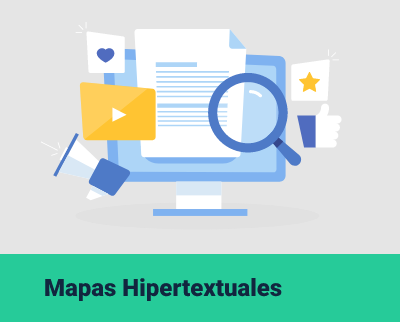
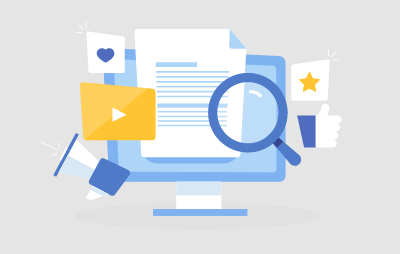
Se corrigen imágenes.

diff --git a/src/views/Tema2.vue b/src/views/Tema2.vue
@@ -54,8 +54,7 @@
     p.mb-5(data-aos="flip-up") En la arquitectura web también se incluye el diseño de interfaz de usuario, el diseño de la aplicación y la estructura de la información, con lo cual hay un enfoque del aspecto visual, colores, tamaños de letra, estructura de las diferentes secciones, las funcionalidades segregadas en cada una de las vistas del sitio web y por último, se determina la información que debe existir en cada una de las secciones del sitio web y que se verá reflejado en un ambiente productivo. 
 
     .cajon.color-secundario.p-4.mb-5(data-aos="flip-up")
-      .cajon-b.color-primario
-        p #[strong Arquitectura de aplicación o arquitectura de #[i software]:] en la arquitectura de aplicación se pueden encontrar métodos, técnicas, diseños y patrones para desarrollar un producto #[i software], la cual provee una guía y una serie de prácticas recomendadas para construir un producto #[i software], de tal modo que se obtenga una solución bien estructurada y siguiendo estándares. 
+      p #[strong.recua_bg2.p-1 Arquitectura de aplicación o arquitectura de #[i software]:] en la arquitectura de aplicación se pueden encontrar métodos, técnicas, diseños y patrones para desarrollar un producto #[i software], la cual provee una guía y una serie de prácticas recomendadas para construir un producto #[i software], de tal modo que se obtenga una solución bien estructurada y siguiendo estándares. 
 
     .row.mb-5(data-aos="flip-up")
       .col-lg-6
@@ -82,8 +81,7 @@
     p.mb-5(data-aos="flip-up") La arquitectura es un punto de partida que permite tomar decisiones de desarrollo, como por ejemplo el tipo de estructura, el lenguaje de programación y la infraestructura que se deberá tener en cuenta para su despliegue. En la actualidad se cuenta con diferentes lenguajes de programación, entre los cuales encontramos Swift, Kotlin, JavaScript, Java, Python, Php, entre otros, los cuales son usados para un tipo de programación en específico. 
 
     .cajon.color-secundario.p-4.mb-5(data-aos="flip-up")
-      .cajon-b.color-primario
-        p #[strong Desarrollo Frontend:] se puede traducir como frente o fachada final, esta vertiente del desarrollo de #[i software] es una especialidad para el desarrollo web y concentra lo que se define como interfaz de usuario (GUI - Graphical User Interface), esta es la parte del sitio web con la cual los usuarios interactúan y este se despliega del lado del cliente; está orientado al lenguaje de marcas o etiquetas, todo lo visual de un sitio web, tamaños, colores, formas, formatos y renderizado de información al usuario. 
+      p #[strong.recua_bg2.p-1 Desarrollo Frontend:] se puede traducir como frente o fachada final, esta vertiente del desarrollo de #[i software] es una especialidad para el desarrollo web y concentra lo que se define como interfaz de usuario (GUI - Graphical User Interface), esta es la parte del sitio web con la cual los usuarios interactúan y este se despliega del lado del cliente; está orientado al lenguaje de marcas o etiquetas, todo lo visual de un sitio web, tamaños, colores, formas, formatos y renderizado de información al usuario. 
 
     p.mb-5(data-aos="flip-up") #[strong Entre las tecnologías que son usadas del lado #[i Front-end] podemos indicar las siguientes:]
 
@@ -102,8 +100,7 @@
         | Css3
 
     .cajon.color-acento-botones.p-4.mb-5(data-aos="flip-up")
-      .cajon-b.color-acento-botones
-        p #[strong Desarrollo Backend:] está enfocado a lenguajes de programación y hace referencia a la lógica interna del sistema, se le conoce también como el desarrollo del lado del servidor, dado que los componentes están en un espacio servidor que normalmente está conectado al internet (nube) o algún tipo de red que permita acceder a sus funcionalidades. 
+      p #[strong.recua_bg1.p-1 Desarrollo Backend:] está enfocado a lenguajes de programación y hace referencia a la lógica interna del sistema, se le conoce también como el desarrollo del lado del servidor, dado que los componentes están en un espacio servidor que normalmente está conectado al internet (nube) o algún tipo de red que permita acceder a sus funcionalidades. 
 
     p.mb-5(data-aos="flip-up") #[strong Entre las tecnologías que son usadas del lado #[i Back-end] podemos indicar las siguientes:]
 
@@ -128,18 +125,18 @@
     p.mb-5(data-aos="flip-up") Los diferentes tipos de arquitecturas web se pueden catalogar dada su profundidad, cantidad de interacciones con el usuario al dar clic, como las siguientes: 
 
     .cajon.color-acento-botones.p-4.mb-5(data-aos="flip-up")
-      .cajon-b.color-acento-botones
-        p.mb-0 #[strong Arquitectura vertical:] son aquellos sitios web que emplean una gran cantidad de categorías, para organizar la información, dejando una gran distancia entre el home y la última página posible, este distanciamiento se mide en clics realizados por el usuario al momento de efectuar la navegación en el sitio.
+      p.mb-0 #[strong.recua_bg1.p-1 Arquitectura vertical:] son aquellos sitios web que emplean una gran cantidad de categorías, para organizar la información, dejando una gran distancia entre el home y la última página posible, este distanciamiento se mide en clics realizados por el usuario al momento de efectuar la navegación en el sitio.
         p.mb-0 Un ejemplo claro de este tipo de arquitectura se puede presentar las páginas web de las tiendas online, en la siguiente grafica puede visualizar este tipo de arquitectura.
 
     p.BorTit.mb-5(data-aos="flip-up") #[strong Figura 4] #[br] #[i Arquitectura vertical]
     figure.mb-5(data-aos="flip-up") 
       img.img-a.mb-4(src='@/assets/curso/tema_2/img_4.png', alt='Texto que describa la imagen')
-      figcaption Nota. Adaptado de Idital (2020) 
+      .row
+        .col-lg-4
+          figcaption Nota. Adaptado de Idital (2020) 
 
     .cajon.color-acento-botones.p-4.mb-5(data-aos="flip-up")
-      .cajon-b.color-acento-botones
-        p.mb-0 #[strong Arquitectura Horizontal:] la arquitectura web horizontal o plana, es aquella que tiene la posibilidad de acceder a todo el contenido del sitio web, con uno o dos clics nada más; se trata del método de distribución de información ideal, además los bots (programa informático que actúa como un robot) podrán leer los patrones presentes el sitio web más rápido y esto resulta muy positivo. En la siguiente gráfica se puede visualizar este tipo de arquitectura:
+      p.mb-0 #[strong.recua_bg1.p-1 Arquitectura Horizontal:] la arquitectura web horizontal o plana, es aquella que tiene la posibilidad de acceder a todo el contenido del sitio web, con uno o dos clics nada más; se trata del método de distribución de información ideal, además los bots (programa informático que actúa como un robot) podrán leer los patrones presentes el sitio web más rápido y esto resulta muy positivo. En la siguiente gráfica se puede visualizar este tipo de arquitectura:
 
     p.BorTit.mb-5(data-aos="flip-up") #[strong Figura 5] #[br] #[i Estructura horizontal]
     figure.mb-5(data-aos="flip-up") 
@@ -156,12 +153,15 @@
     .row.mb-5
       .col-lg-4.mb-4.mb-lg-0(data-aos="slide-left") 
         img.img-a.mb-3(src='@/assets/curso/tema_2/img_6.png', alt='Texto que describa la imagen')
+        h4.text-center Mapas Hipertextuales
         p Son artefactos que representan gráficamente los documentos, elementos,  hipervínculos  y las conexiones existentes entre los mismos.
       .col-lg-4.mb-4.mb-lg-0(data-aos="flip-up")
         img.img-a.mb-3(src='@/assets/curso/tema_2/img_7.png', alt='Texto que describa la imagen')
+        h4.text-center Mapas de Navegación en Acción
         p Describe las categorías implementadas en el menú de navegación.
       .col-lg-4.mb-4.mb-lg-0(data-aos="slide-right") 
         img.img-a.mb-3(src='@/assets/curso/tema_2/img_8.png', alt='Texto que describa la imagen')
+        h4.text-center Software para crear mapas 
         p Se utilizan herramientas de generación de código, por lo general basados en JavaScript, el cual permite la exportación de un menú activo, que utiliza imágenes como iconos y estándares en los archivos generados. 
 
     p.mb-5(data-aos="flip-up")
@@ -170,7 +170,9 @@
     p.BorTit.mb-5(data-aos="flip-up") #[strong Figura 6] #[br] #[i Mapa de navegación]
     figure.mb-5(data-aos="flip-up") 
       img.img-a.mb-4(src='@/assets/curso/tema_2/img_9.png', alt='Texto que describa la imagen')
-      figcaption Nota. Adaptado de Eniun (s.f)
+      .row
+        .col-lg-4
+          figcaption Nota. Adaptado de Eniun (s.f)
 
     separador
     #t_2_3.titulo-segundo(data-aos="flip-up")
@@ -275,16 +277,13 @@
     p.mb-5(data-aos="flip-up") Por su parte, un IDE (Integrated Developer Environment) o entorno de desarrollo integrado, es una aplicación especial diseñada para programar, la cual cuenta con una interfaz gráfica (GUI), con un editor de texto que permite escribir las sentencias u órdenes en el lenguaje de programación seleccionado para construir el producto #[i software]. Este tipo de herramientas vienen con una serie de pasos de configuración para que al realizar el proceso de programación, compilación y ejecución todo esté acorde y se pueda probar y desplegar el producto de manera local (en la máquina del desarrollador). Sabiendo esto, las siguientes son algunas de las características de los IDE:
 
     .cajon.color-acento-botones.p-4.mb-5(data-aos="slide-left") 
-      .cajon-b.color-acento-botones
-        p.mb-0 #[strong Editor de código fuente:] es la herramienta que permite al desarrollador escribir el código fuente del producto #[i software], esta herramienta por lo general contiene indicadores visuales, que ayudan a identificar los errores de sintaxis, autocompletado, comprobación de errores a la medida que se van escribiendo las sentencias. En esta herramienta se hace plena validación de las reglas semánticas del lenguaje en el cual se está construyendo el producto #[i software].
+      p.mb-0 #[strong.recua_bg1.p-1 Editor de código fuente:] es la herramienta que permite al desarrollador escribir el código fuente del producto #[i software], esta herramienta por lo general contiene indicadores visuales, que ayudan a identificar los errores de sintaxis, autocompletado, comprobación de errores a la medida que se van escribiendo las sentencias. En esta herramienta se hace plena validación de las reglas semánticas del lenguaje en el cual se está construyendo el producto #[i software].
 
     .cajon.color-secundario.p-4.mb-5(data-aos="slide-right") 
-      .cajon-b.color-secundario
-        p.mb-0 #[strong Automatización de compilaciones locales:] herramienta que sirve para automatizar tareas sencillas y repetitivas como parte de la comisión local, esto permite crear el código binario, ejecución de prueba automatizadas, verificación de cobertura, verificación de estilos en la programación para el código fuente. 
+      p.mb-0 #[strong.recua_bg2 Automatización de compilaciones locales:] herramienta que sirve para automatizar tareas sencillas y repetitivas como parte de la comisión local, esto permite crear el código binario, ejecución de prueba automatizadas, verificación de cobertura, verificación de estilos en la programación para el código fuente. 
 
     .cajon.color-acento-botones.p-4.mb-5(data-aos="slide-left") 
-      .cajon-b.color-acento-botones
-        p.mb-0 #[strong Depurador:] es la herramienta que sirve para probar los programas, en el cual se realiza una inspección y se ubican los errores en el código de forma visual o en un reporte en texto plano, esto es de mucha utilidad para los desarrolladores ya que permite encontrar problemas rápidamente y dar solución. 
+      p.mb-0 #[strong.recua_bg1.p-1 Depurador:] es la herramienta que sirve para probar los programas, en el cual se realiza una inspección y se ubican los errores en el código de forma visual o en un reporte en texto plano, esto es de mucha utilidad para los desarrolladores ya que permite encontrar problemas rápidamente y dar solución. 
 
     .row.mb-5
       .col-lg-5

diff --git a/src/views/Tema1.vue b/src/views/Tema1.vue
@@ -11,7 +11,7 @@
       .col-lg-7.mb-4.mb-lg-0(data-aos="slide-left")
         p Juega un papel muy importante en el proceso del desarrollo de #[i software], ya que desde allí se definen la estructura, componentes, comportamiento e infraestructura requerida para la construcción del #[i software], impactando la capacidad para satisfacer los atributos de calidad del sistema; entre estos están: el desempeño, tiempos de respuesta, usabilidad, accesibilidad, escalabilidad, mantenimiento y cambios de nuevas funcionalidades. 
 
-        .cajon-b.color-acento-botones.p-3.mb-5
+        .cajon-b.color-acento-botones.p-1.mb-5
           p.mb-0 Los atributos de calidad son parte de los requisitos del sistema no funcionales y son características que se deben expresar de forma cuantitativa. No tienen sentido si se expresan de forma subjetiva, dado que esto no va a ser posteriormente evaluable; por ejemplo, decir que el sistema al recibir una petición #[strong “debe ser rápido”] o que una página #[strong “debe ser ligera al cargar”], esto no se podría evaluar objetivamente. Por lo cual, podríamos decir que, si en un sistema estructurado la información debe pasar por muchos componentes antes de devolver el resultado, esto incurre en aumentar la latencia y su desempeño puede llegar a ser pobre. Otro ejemplo es que si los componentes de un #[i software] presentan un alto acoplamiento y una baja cohesión entre ellos se limita altamente la modificabilidad.
 
 
@@ -27,7 +27,9 @@
     p.BorTit.mb-5(data-aos="flip-up") #[strong Figura 1] #[br] #[i Representación de la arquitectura por capas]
     figure.mb-5(data-aos="flip-up") 
       img.img-a.mb-4(src='@/assets/curso/tema_1/img_2.svg', alt='Texto que describa la imagen')
-      figcaption Nota. Adaptada de Programadorclic (s.f.)
+      .row
+        .col-lg-4
+          figcaption Nota. Adaptada de Programadorclic (s.f.)
 
     p.mb-5(data-aos="flip-up")
       strong En la anterior imagen se puede observar el ejemplo de una arquitectura con 5 capas, en la cual cada capa tiene una finalidad específica en la aplicación, las cuales se describen a continuación: 
@@ -89,33 +91,10 @@
 
       h4.mb-5 Representación de arquitectura por capas
 
-      AcordionA.mb-5(tipo="a" clase-tarjeta="tarjeta bg_02")(data-aos="flip-up")
-        .row.justify-content-center(titulo="Capa de presentación")
-          .col-md-4.mb-4.mb-md-0
-            .bg_03.p-4
-              h5.mb-0.text-center.txt_01 Componente
-          .col-md-4.mb-4.mb-md-0
-            .bg_03.p-4
-              h5.mb-0.text-center.txt_01 Componente
-        .row.justify-content-center(titulo="Capa de negocio")
-          .col-md-4.mb-4.mb-md-0
-            .bg_03.p-4
-              h5.mb-0.text-center.txt_01 Componente
-          .col-md-4.mb-4.mb-md-0
-            .bg_03.p-4
-              h5.mb-0.text-center.txt_01 Componente
-        .row.justify-content-center(titulo="Capa de persistencia")
-          .col-md-4.mb-4.mb-md-0
-            .bg_03.p-4
-              h5.mb-0.text-center.txt_01 Componente
-          .col-md-4.mb-4.mb-md-0
-            .bg_03.p-4
-              h5.mb-0.text-center.txt_01 Componente
-        .row.justify-content-center(titulo="Capa de bases de datos")
-          .col-md-4.mb-4.mb-md-0
-            img.img-a(src='@/assets/curso/tema_1/img_8.png', alt='Texto que describa la imagen')
-          .col-md-4.mb-4.mb-md-0
-            img.img-a(src='@/assets/curso/tema_1/img_8.png', alt='Texto que describa la imagen')
+      img.img-a.mb-3(data-aos="slide-left")(src='@/assets/curso/tema_1/img_40.png', alt='Texto que describa la imagen')
+      img.img-a.mb-3(data-aos="slide-right")(src='@/assets/curso/tema_1/img_41.png', alt='Texto que describa la imagen')
+      img.img-a.mb-3(data-aos="slide-left")(src='@/assets/curso/tema_1/img_42.png', alt='Texto que describa la imagen')
+      img.img-a.mb-5(data-aos="slide-right")(src='@/assets/curso/tema_1/img_43.png', alt='Texto que describa la imagen')
 
       .row.mb-5(data-aos="flip-up")
         .col-lg-6.mb-4.mb-lg-0(data-aos="slide-left")
@@ -151,25 +130,27 @@
           .row.align-items-center.justify-content-center
             .col-md-5.mb-4.mb-md-0
               p Es un tipo de arquitectura tradicional asociada a los sistemas heredados, estas contemplan toda la funcionalidad en sí, en la cual hay conexión directa a la interacción de servicios como a la construcción de estos.
-            .col-md-4
+            .col-md-5
               figure
                 img.img-a(src='@/assets/curso/tema_1/img_10.png', alt='Texto que describa la imagen')
           .row.align-items-center.justify-content-center
             .col-md-5.mb-4.mb-md-0
               p Esto significa que al hacer algún tipo de ajuste o cambio funcional el impacto es bastante alto y crítico,  pues hay afectaciones en la aplicación y en la infraestructura subyacente.
-            .col-md-4
+            .col-md-5
               figure
                 img.img-a(src='@/assets/curso/tema_1/img_11.png', alt='Texto que describa la imagen')
           .row.align-items-center.justify-content-center
             .col-md-5.mb-4.mb-md-0
               p Un solo cambio implica volver a desplegar toda la infraestructura, hay empresas que optan por lanzar actualizaciones 1 o 2 veces al año, y muchas veces sin incluir nuevas funcionalidades y solo es soporte de mantenimiento.
-            .col-md-4
+            .col-md-5
               figure
                 img.img-a(src='@/assets/curso/tema_1/img_12.png', alt='Texto que describa la imagen')
           .row.align-items-center.justify-content-center
             h4.text-center.mb-5 Representación de una Arquitectura Monolítica:
-            img.img-a.mb-2(src='@/assets/curso/tema_1/img_13.png', alt='Texto que describa la imagen')
-            figcaption.mb-4 Nota. Adaptada de Blancarte (2020)
+            img.img-a.mb-3(src='@/assets/curso/tema_1/img_13.png', alt='Texto que describa la imagen')
+            .row
+              .col-lg-4
+                  figcaption.mb-4 Nota. Adaptada de Blancarte (2020)
 
     .bg_01.p-5.mb-5(data-aos="flip-up")
       h3.mb-5 Arquitectura orientada a servicios (SOA): 
@@ -178,19 +159,19 @@
           .row.align-items-center.justify-content-center
             .col-md-5.mb-4.mb-md-0
               p En esta se definen las funcionalidades en estructuras de servicios independientes y reutilizables que se utilizan por medio de un bus de servicios empresarial (ESB). 
-            .col-md-4
+            .col-md-5
               figure
                 img.img-a(src='@/assets/curso/tema_1/img_14.png', alt='Texto que describa la imagen')
           .row.align-items-center.justify-content-center
             .col-md-5.mb-4.mb-md-0
               p Los servicios se organizan en torno a un proceso empresarial específico que se denomina “dominio”, estos servicios deben cumplir con un protocolo de comunicación como SOAP, REST, ActiveMQ. 
-            .col-md-4
+            .col-md-5
               figure
                 img.img-a(src='@/assets/curso/tema_1/img_15.png', alt='Texto que describa la imagen')
           .row.align-items-center.justify-content-center
             .col-md-5.mb-4.mb-md-0
               p Una aplicación Front-end puede consumir estos servicios por medio de una integración hacia el bus y presentarla al cliente.  
-            .col-md-4
+            .col-md-5
               figure
                 img.img-a(src='@/assets/curso/tema_1/img_16.png', alt='Texto que describa la imagen')
           .row.align-items-center.justify-content-center
@@ -204,25 +185,27 @@
           .row.align-items-center.justify-content-center
             .col-md-5.mb-4.mb-md-0
               p Representa un modo de abordar la construcción del #[i software] y la estructuración del mismo, en este tipo de implementación el producto #[i software] se divide en elementos más pequeños, que se representan en muchos productos de #[i software] (aplicaciones), los cuales son independientes entre sí. 
-            .col-md-4
+            .col-md-5
               figure
                 img.img-a(src='@/assets/curso/tema_1/img_18.png', alt='Texto que describa la imagen')
           .row.align-items-center.justify-content-center
             .col-md-5.mb-4.mb-md-0
               p A cada uno de estos elementos individuales se le denomina microservicio, que por lo general están distribuidos por dominio de negocio y tiene la particularidad de manejar un bajo acoplamiento, de tal manera que no influyen entre sí.  
-            .col-md-4
+            .col-md-5
               figure
                 img.img-a(src='@/assets/curso/tema_1/img_19.png', alt='Texto que describa la imagen')
           .row.align-items-center.justify-content-center
             .col-md-5.mb-4.mb-md-0
               p Este marco de trabajo es apropiado para dar soporte oportuno a la escalabilidad dinámica y la tolerancia a fallos, dado que se puede ampliar su función utilitaria sin tener que recurrir a una infraestructura compleja, se pueden realizar cambios rápidos y no afectar de esta manera a los demás dominios funcionales representados en los microservicios.
-            .col-md-4
+            .col-md-5
               figure
                 img.img-a(src='@/assets/curso/tema_1/img_20.png', alt='Texto que describa la imagen')
           .row.align-items-center.justify-content-center
             h4.text-center.mb-5 Representación de arquitectura orientada a servicios (SOA)
             img.img-a.mb-2(src='@/assets/curso/tema_1/img_21.png', alt='Texto que describa la imagen')
-            figcaption.mb-3 Nota. Adaptado de Blancarte (2018).
+            .row
+              .col-lg-4
+                figcaption.mb-3 Nota. Adaptado de Blancarte (2018).
 
             p.mb-4 Como se refleja en la figura, el contenedor 1, 2, 3, n, representan los microservicios (aplicaciones pequeñas), en las cuales se contienen una serie de servicios, estos se pueden orquestar entre sí y ser liberados directamente a un cliente, que puede ser un sitio web, una aplicación móvil o el backend de otro producto #[i software].  
 
@@ -233,7 +216,9 @@
     p.BorTit(data-aos="flip-up") #[strong Figura 2] #[br] #[i Arquitectura monolítica vs arquitectura orientada a microservicios]
     figure.mb-5(data-aos="flip-up")
       img.img-a.mb-3(src='@/assets/curso/tema_1/img_22.png', alt='Texto que describa la imagen')
-      figcaption Nota. Adaptado de Decide Soluciones (2019)
+      .row
+        .col-lg-4
+          figcaption Nota. Adaptado de Decide Soluciones (2019)
 
     .bg_01.p-5.mb-5(data-aos="flip-up")
       h3.mb-5 Arquitectura orientada a eventos (EDA):
@@ -277,7 +262,9 @@
           .row.align-items-center.justify-content-center
             h4.text-center.mb-5 Representación de Arquitectura Orientada a Eventos (EDA):
             img.img-a.mb-2(src='@/assets/curso/tema_1/img_28.png', alt='Texto que describa la imagen')
-            figcaption.mb-3 Nota. Adaptado de Tovar Casallas (2016)
+            .row
+              .col-lg-4
+                figcaption.mb-3 Nota. Adaptado de Tovar Casallas (2016)
 
             p En la figura se pueden observar los diferentes productores, los cuales emiten eventos que son distribuidos por un canal, que a su vez son enviados a los suscriptores/consumidores que estén atentos al tópico del evento.
 
@@ -300,7 +287,9 @@
           .row.align-items-center.justify-content-center
             h4.text-center.mb-5 Representación de Arquitectura cliente-servidor:
             img.img-a.mb-2(src='@/assets/curso/tema_1/img_31.png', alt='Texto que describa la imagen')
-            figcaption.mb-3 Adaptado de CursosGratis (2021)
+            .row
+              .col-lg-4
+                figcaption.mb-3 Adaptado de CursosGratis (2021)
             p La separación entre cliente y servidor es del tipo lógico, donde el servidor no se ejecuta necesariamente en una sola máquina o ambiente, ni necesariamente es un solo programa.
 
     separador

diff --git a/src/styles/_custom.sass b/src/styles/_custom.sass
@@ -45,6 +45,9 @@
 .bg_08
   background-color: #EFFFFA
 
+.bg_09
+  background-color: #FFF2F2
+
 .txt_01
   color: #26CB99
 
@@ -97,7 +100,7 @@
   background-color: #FFE3E3
 
 .cajon-b.color-acento-botones:before
-  background-color: #CE6666
+  background-color: #FFF2F2
 
 .tabs-b.color-acento-contenido .tabs-b__tab--active
   border-top-color: #26CB99
@@ -106,8 +109,27 @@
   width: 150px
   margin-bottom: 0px
 
+.recua_bg1
+  background-color: #EB9595
+
+.recua_bg2
+  background-color: #95EBD1
+
+.titulo-segundo:after 
+  border-left: solid 50px #EB9595
 
 
+.banner-principal__img
+  img
+	  animation: float 3s ease-in-out infinite
+
+@keyframes float
+	0%
+		transform: translatey(0px)
+	50%
+		transform: translatey(-10px)
+	100%
+		transform: translatey(0px)
 
 
 

diff --git a/src/styles/_variables.sass b/src/styles/_variables.sass
@@ -73,7 +73,7 @@ $color-link-hover: darken($color-primario, 25%)
 
 // Color Botones ---------------------------------------
 $color-btn-fondo: $color-acento-botones
-$color-btn-texto: $color-primario
+$color-btn-texto: $white
 
 // Colores banner --------------------------------------
 $color-banner-fondo: $color-primario
